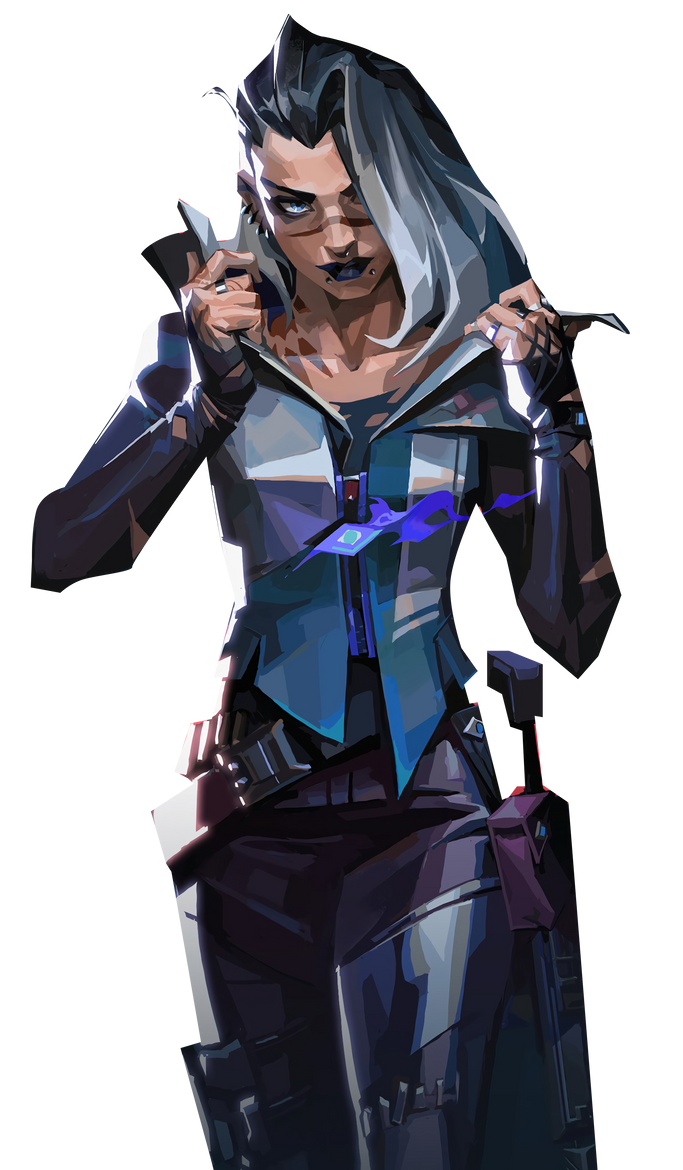
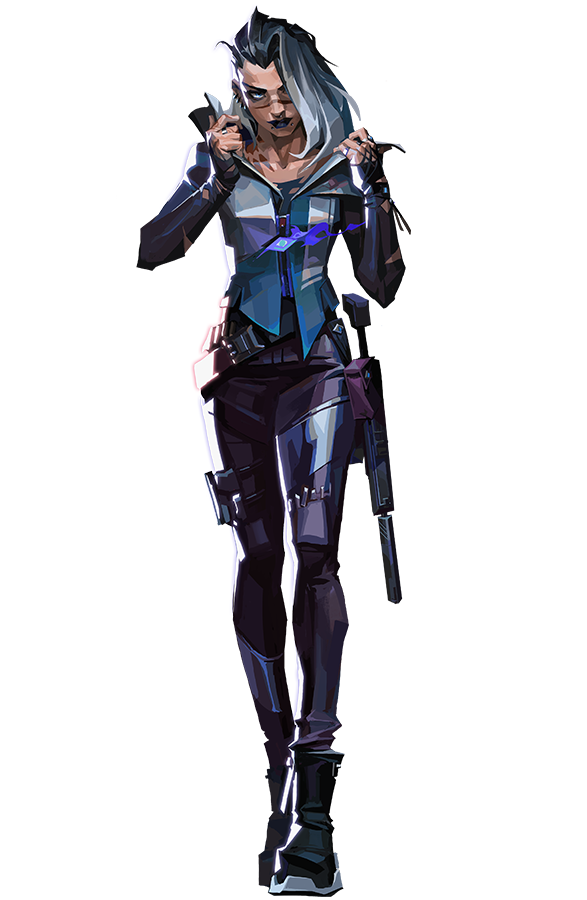
agents half

diff --git a/frontend/src/Components/Agents/Agents.js b/frontend/src/Components/Agents/Agents.js
@@ -2,6 +2,13 @@ import React, {useEffect} from 'react'
 import './Agents.css'
 import { useNavigate ,Routes,Route, Link} from 'react-router-dom'
 import Yoru from './Yoru'
+import Reyna from './Reyna'
+import Sage from './Sage'
+import Jett from './Jett'
+import Raze from './Raze'
+import Astra from './Astra'
+import Fade from './Fade'
+import Chamber from './Chamber'
 
 
 const Agents = () => {
@@ -43,15 +50,40 @@ const Agents = () => {
          <section className='A-sec1'>
             <div className='A-grid1'>
                <Link className='A-link' to={'brimstone'}> <h1><b>BRIMSTONE</b></h1></Link>
+               <Link className='A-link' to={'phoenix'}><h1 ><b>PHOENIX</b></h1></Link>
+               <Link className='A-link' to={'sage'}><h1 ><b>SAGE</b></h1></Link>
+               <Link className='A-link' to={'sova'}><h1 ><b>SOVA</b></h1></Link>
+               <Link className='A-link' to={'viper'}><h1><b>VIPER</b></h1></Link>
+               <Link className='A-link' to={'cypher'}> <h1><b>CYPHER</b></h1></Link>
+               <Link className='A-link' to={'reyna'}> <h1><b>REYNA</b></h1></Link>
+               <Link className='A-link' to={'killjoy'}><h1 ><b>KILLJOY</b></h1></Link>
+               <Link className='A-link' to={'breach'}><h1 ><b>BREACH</b></h1></Link>
+               <Link className='A-link' to={'omen'}><h1><b>OMEN</b></h1></Link>
+               <Link className='A-link' to={'jett'}> <h1><b>JETT</b></h1></Link>
+               <Link className='A-link' to={'raze'}> <h1><b>RAZE</b></h1></Link>
+               <Link className='A-link' to={'skye'}><h1 ><b>SKYE</b></h1></Link>
                <Link className='A-link' to={'yoru'}><h1 ><b>YORU</b></h1></Link>
-               <Link className='A-link' to={'rayna'}><h1 ><b>RAYNA</b></h1></Link>
-               <Link className='A-link' to={'sova'}><h1><b>SOVA</b></h1></Link>
-               <Link className='A-link' to={'sage'}> <h1><b>SAGE</b></h1></Link>
+               <Link className='A-link' to={'astra'}><h1 ><b>ASTRA</b></h1></Link>
+               <Link className='A-link' to={'kay-o'}><h1><b>KAY/O</b></h1></Link>
+               <Link className='A-link' to={'chamber'}> <h1><b>CHAMBER</b></h1></Link>
+               <Link className='A-link' to={'neon'}> <h1><b>NEON</b></h1></Link>
+               <Link className='A-link' to={'fade'}><h1 ><b>FADE</b></h1></Link>
+               <Link className='A-link' to={'harbor'}><h1 ><b>HARBOR</b></h1></Link>
+               <Link className='A-link' to={'gekko'}> <h1><b>GEKKO</b></h1></Link>
                
             </div>
             <div className='A-grid2'>
                <Routes>
                   <Route path='yoru' element={<Yoru/>}/>
+                  <Route path='reyna' element={<Reyna/>}/>
+                  <Route path='sage' element={<Sage/>}/>
+                  <Route path='jett' element={<Jett/>}/>
+                  <Route path='raze' element={<Raze/>}/>
+                  <Route path='astra' element={<Astra/>}/>
+                  <Route path='fade' element={<Fade/>}/>
+                  <Route path='chamber' element={<Chamber/>}/>
+
+
                </Routes>
                
             </div>

diff --git a/frontend/src/App.js b/frontend/src/App.js
@@ -1,5 +1,6 @@
 import React, { createContext, useReducer } from 'react'
 import {  BrowserRouter,Route,Routes } from 'react-router-dom';
+import {reducer , initialState}from '../src/reducer/UseReduce';
 import Header from './Components/Header/Header'
 import Footer from './Components/Footer/Footer';
 import About from './Components/About/About';
@@ -12,9 +13,14 @@ import Weapons from './Components/Weapons/Weapons';
 import Home from './Components/Home/Home';
 import Signin from './Components/Signin/Signin1';
 import Logout from './Components/Logout/Logout';
-
-import {reducer , initialState}from '../src/reducer/UseReduce';
 import Yoru from './Components/Agents/Yoru';
+import Reyna from './Components/Agents/Reyna';
+import Sage from './Components/Agents/Sage';
+import Jett from './Components/Agents/Jett';
+import Raze from './Components/Agents/Raze';
+import Astra from './Components/Agents/Astra';
+import Fade from './Components/Agents/Fade';
+import Chamber from './Components/Agents/Chamber';
 
 
   //----- context API -----//
@@ -28,6 +34,15 @@ import Yoru from './Components/Agents/Yoru';
       <Route path='about' element={<About/>}/>
       <Route path='agents' element={<Agents/>}>
         <Route path='yoru' element={<Yoru/>}/>
+        <Route path='reyna' element={<Reyna/>}/>
+        <Route path='sage' element={<Sage/>}/>
+        <Route path='jett' element={<Jett/>}/>
+        <Route path='raze' element={<Raze/>}/>
+        <Route path='astra' element={<Astra/>}/>
+        <Route path='fade' element={<Fade/>}/>
+        <Route path='chamber' element={<Chamber/>}/>
+        
+
       </Route>
       <Route path='maps' element={<Maps/>}/>
       <Route path='skins' element={<Skins/>}/>

diff --git a/frontend/src/Components/Agents/Agents.css b/frontend/src/Components/Agents/Agents.css
@@ -6,7 +6,7 @@
 .A-sec1{
     padding:  0 50px;
     display: grid;
-    grid-template-columns: 25% 60%;
+    grid-template-columns: 30% 60%;
     gap: 10%;
 }
 .A-grid1{
@@ -14,6 +14,9 @@
     max-height: 90vh;
     display: flex;
     flex-direction: column;
+    justify-content: center;
+    text-align: center;
+    padding-right: 30px;
 }
 .A-grid1 .A-link{
     text-decoration: none;
@@ -22,32 +25,36 @@
 .A-grid1 .A-link h1{
    font-size: 80px;
    color: white;
-   transition: .2s;
+   transition: .4s;
    text-shadow: 0 10px 10px rgba(0, 0, 0, 0.4);
 
 }
 .A-grid1 .A-link h1:hover{
-    margin-left: 30px;
+    margin-left: 15px;
     color: #0194eb;
 }
 
 .A-cardMain{
-    display: flex;
+    display: grid;
+    grid-template-columns: 60% 40%;
     padding: 0 5%;
     gap: 20px;
 }
 .cMain1{
     width: 100%;
     height: 100%;
+    position: relative;
     
 }
+
 .cMain1 img{
     padding: 20% 0;
-    width: 400px;
+    width: 80%;
+    position: absolute;
     
 }
 .cMain2{
-    padding: 20% 0;
+    padding: 40% 0;
 }
 .cMain2 h1{
     font-size: 60px;
@@ -65,4 +72,9 @@
     font-size: 18px;
     color: white;
    text-shadow: 0 10px 10px rgba(0, 0, 0, 0.4);
+}
+/* //----- agents ----// */
+
+.cMain1  .reyna{
+    width: 300px;
 }

diff --git a/frontend/src/Components/Agents/Astra.js b/frontend/src/Components/Agents/Astra.js
@@ -1,0 +1,24 @@
+import React from 'react'
+import astra from '../Assets/AgentsPng/astra.png'
+
+
+
+const Astra = () => {
+  return (
+    <>
+        <div className='A-cardMain'>
+            <div className='cMain1'>
+                <img src={astra} alt=''/>
+            </div>
+            <div className='cMain2'>
+                <h3>ROLE //</h3>
+                <h1><b>CONTROLLER</b></h1>
+                <h3> BIOGRAPHY //</h3>
+                <p>Ghanaian Agent Astra harnesses the energies of the cosmos to reshape battlefields to her whim. With full command of her astral form and a talent for deep strategic foresight, she's always eons ahead of her enemy's next move.</p>
+            </div>
+        </div> 
+    </>
+  )
+}
+
+export default Astra

diff --git a/frontend/src/Components/Agents/Reyna.js b/frontend/src/Components/Agents/Reyna.js
@@ -1,0 +1,25 @@
+import React from 'react'
+import reyna from '../Assets/AgentsPng/reyna.png'
+
+
+const Reyna = () => {
+
+
+  return (
+    <>
+        <div className='A-cardMain'>
+            <div className='cMain1'>
+                 <img className='reyna' src={reyna} alt=''/>
+            </div>
+            <div className='cMain2'>
+                <h3>ROLE //</h3>
+                <h1><b>DUELIST </b></h1>
+                <h3> BIOGRAPHY //</h3>
+                <p>Forged in the heart of Mexico, Reyna dominates single combat, popping off with each kill she scores. Her capability is only limited by her raw skill, making her highly dependent on performance.</p>
+            </div>
+        </div> 
+    </>
+  )
+}
+
+export default Reyna

diff --git a/frontend/src/Components/Agents/Chamber.js b/frontend/src/Components/Agents/Chamber.js
@@ -1,0 +1,23 @@
+import React from 'react'
+import chamber from '../Assets/AgentsPng/chamber.png'
+
+
+const Chamber = () => {
+  return (
+    <>
+      <div className='A-cardMain'>
+          <div className='cMain1'>
+              <img src={chamber} alt=''/>
+          </div>
+          <div className='cMain2'>
+              <h3>ROLE //</h3>
+              <h1><b>SENTINEL </b></h1>
+              <h3> BIOGRAPHY //</h3>
+              <p>Well dressed and well armed, French weapons designer Chamber expels aggressors with deadly precision. He leverages his custom arsenal to hold the line and pick off enemies from afar, with a contingency built for every plan.</p>
+          </div>
+      </div> 
+    </>
+  )
+}
+
+export default Chamber

diff --git a/frontend/src/Components/Agents/Sage.js b/frontend/src/Components/Agents/Sage.js
@@ -1,0 +1,22 @@
+import React from 'react'
+import sage from '../Assets/AgentsPng/sage.png'
+
+const Sage = () => {
+  return (
+    <>
+      <div className='A-cardMain'>
+          <div className='cMain1'>
+              <img src={sage} alt=''/>
+          </div>
+          <div className='cMain2'>
+              <h3>ROLE //</h3>
+              <h1><b>SENTINEL </b></h1>
+              <h3> BIOGRAPHY //</h3>
+              <p>The stronghold of China, Sage creates safety for herself and her team wherever she goes. Able to revive fallen friends and stave off aggressive pushes, she provides a calm center to a hellish fight.</p>
+          </div>
+      </div> 
+    </>
+  )
+}
+
+export default Sage

diff --git a/frontend/src/Components/Agents/Jett.js b/frontend/src/Components/Agents/Jett.js
@@ -1,0 +1,22 @@
+import React from 'react'
+import jett from '../Assets/AgentsPng/jett1.png'
+
+const Jett = () => {
+  return (
+    <>
+    <div className='A-cardMain'>
+        <div className='cMain1'>
+             <img src={jett} alt=''/>
+        </div>
+        <div className='cMain2'>
+            <h3>ROLE //</h3>
+            <h1><b>DUELIST </b></h1>
+            <h3> BIOGRAPHY //</h3>
+            <p>Representing her home country of South Korea, Jett's agile and evasive fighting style lets her take risks no one else can. She runs circles around every skirmish, cutting enemies before they even know what hit them.</p>
+        </div>
+    </div> 
+    </>
+  )
+}
+
+export default Jett

diff --git a/frontend/src/Components/Agents/Raze.js b/frontend/src/Components/Agents/Raze.js
@@ -1,0 +1,23 @@
+import React from 'react'
+import raze from '../Assets/AgentsPng/raze.png'
+
+
+const Raze = () => {
+  return (
+    <>
+    <div className='A-cardMain'>
+        <div className='cMain1'>
+             <img src={raze} alt=''/>
+        </div>
+        <div className='cMain2'>
+            <h3>ROLE //</h3>
+            <h1><b>DUELIST </b></h1>
+            <h3> BIOGRAPHY //</h3>
+            <p>Raze explodes out of Brazil with her big personality and big guns. With her blunt-force-trauma playstyle, she excels at flushing entrenched enemies and clearing tight spaces with a generous dose of “boom.”</p>
+        </div>
+    </div> 
+</>
+  )
+}
+
+export default Raze

diff --git a/frontend/src/Components/Agents/Fade.js b/frontend/src/Components/Agents/Fade.js
@@ -1,0 +1,23 @@
+import React from 'react'
+import fade from '../Assets/AgentsPng/fade.png'
+
+
+const Fade = () => {
+  return (
+    <>
+    <div className='A-cardMain'>
+        <div className='cMain1'>
+            <img src={fade} alt=''/>
+        </div>
+        <div className='cMain2'>
+            <h3>ROLE //</h3>
+            <h1><b>INITIATOR</b></h1>
+            <h3> BIOGRAPHY //</h3>
+            <p>Turkish bounty hunter, Fade, unleashes the power of raw nightmares to seize enemy secrets. Attuned with terror itself, she hunts targets and reveals their deepest fears—before crushing them in the dark.</p>
+        </div>
+    </div> 
+</>
+  )
+}
+
+export default Fade
